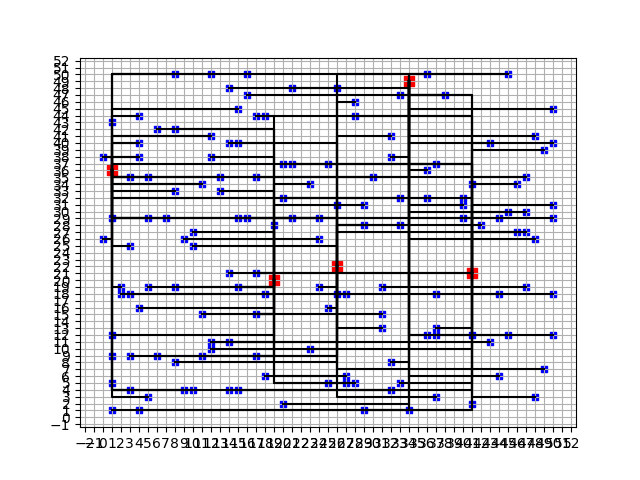
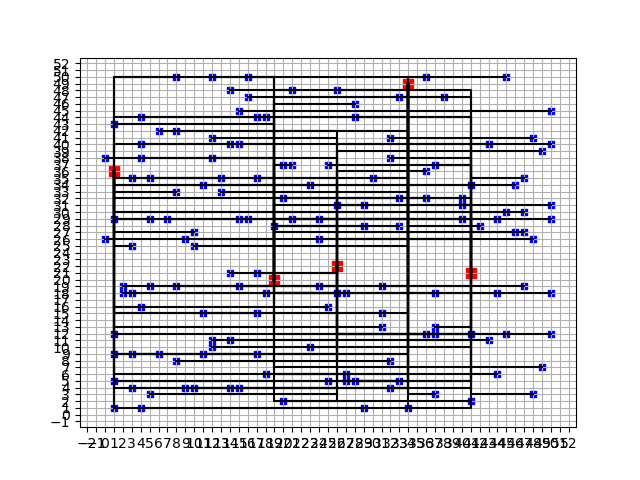
Added new path finding and colored visualization

Changed region(s): [[0.0625, 0.125, 0.9062, 0.9375]]

diff --git a/path_finders.py b/path_finders.py
@@ -1,5 +1,17 @@
 from typing import Tuple, List, Set
 import random
+import math
+import time
+
+def calc_distance(L1, L2, P):
+    x_start, y_start = L1
+    x_end, y_end = L2
+    x_point, y_point = P
+
+    distance = (abs((x_end - x_start) * (y_start - y_point) - (x_start - x_point) * (y_end - y_start)) 
+                / math.sqrt(((x_end - x_start) ** 2) + ((y_end - y_start) ** 2)))
+    
+    return distance
 
 
 def random_path_finder(starting_coord: Tuple[int, int],
@@ -42,25 +54,46 @@ def random_path_finder(starting_coord: Tuple[int, int],
     else:
         next_move_y = int(y_dif / abs(y_dif))
 
-    moves = []
-    for x in range(abs(x_dif)):
-        moves.append(("x_path", next_move_x))
-    for y in range(abs(y_dif)):
-        moves.append(("y_path", next_move_y))
+    # moves = []
+    # for x in range(abs(x_dif)):
+    #     moves.append(("x_path", next_move_x))
+    # for y in range(abs(y_dif)):
+    #     moves.append(("y_path", next_move_y))
     
-    random.shuffle(moves)
+    # random.shuffle(moves)
 
     path = [(x_path, y_path)]
     
+    while (x_path, y_path) != (x_end, y_end):
+        x_test = (x_path + next_move_x, y_path)
+        y_test = (x_path, y_path + next_move_y)
+
+        # calculate distance from the two point to the house-battery line
+        x_move_dis = calc_distance(starting_coord, end_coord, x_test)
+        y_move_dis = calc_distance(starting_coord, end_coord, y_test)
+
+        # choose the option closest to the line, favoring the x_direction
+        if x_path == x_end:
+            y_path += next_move_y
+            path.append((x_path, y_path))
+        elif y_path == y_end:
+            x_path += next_move_x
+            path.append((x_path, y_path))
+        elif x_move_dis <= y_move_dis:
+            x_path += next_move_x
+        else:
+            y_path += next_move_y
+        path.append((x_path, y_path))
+
     # Draw the X line
-    while x_path != x_end:
-        x_path += next_move_x
-        path.append((x_path, y_path))
+    # while x_path != x_end:
+    #     x_path += next_move_x
+    #     path.append((x_path, y_path))
     
-    # Draw the Y line
-    while y_path != y_end:
-        y_path += next_move_y
-        path.append((x_path, y_path))
+    # # Draw the Y line
+    # while y_path != y_end:
+    #     y_path += next_move_y
+    #     path.append((x_path, y_path))
 
     # for move in moves:
     #     if move[0] == "x_path":

diff --git a/visualize.py b/visualize.py
@@ -32,7 +32,7 @@ def visualize_hill(cost_record: List[int], output: str) -> None:
 
 def visualize_grid(house_coords: List[Tuple[int, int]],
                    battery_coords: List[Tuple[int, int]],
-                   wire_paths: List[List[Tuple[int, int]]], 
+                   wire_paths: Tuple[int, List[List[Tuple[int, int]]]], 
                    output: str) -> None:
     '''
     plots a figure with all houses, batteries and wire-paths
@@ -49,7 +49,8 @@ def visualize_grid(house_coords: List[Tuple[int, int]],
     '''
 
     fig, ax = plt.subplots()
-    for path in wire_paths:
+    colors = ["red", "blue", "green", "purple", "black"]
+    for bat_id, path in wire_paths:
         x = []
         y = []
         for coord in path:
@@ -58,7 +59,7 @@ def visualize_grid(house_coords: List[Tuple[int, int]],
         x = np.array(x)
         y = np.array(y)
 
-        plt.plot(x, y, color='black')
+        plt.plot(x, y, color=colors[bat_id])
 
     for coord in house_coords:
         plt.scatter(coord[0], coord[1], s=25, color='blue', marker='s')

diff --git a/wires.py b/wires.py
@@ -108,8 +108,8 @@ class Wires():
         battery.connect(house)
 
     def get_paths(self) -> List[List[Tuple[int, int]]]:
-        paths = [wire.path for wire in self.wires.values()]
-        return paths
+        colored_paths = [(wire.battery.id, wire.path) for wire in self.wires.values()]
+        return colored_paths
 
     def swap(self, house_1, house_2) -> Dict[int, Type[Wire]]:
         battery_1 = house_1.battery
